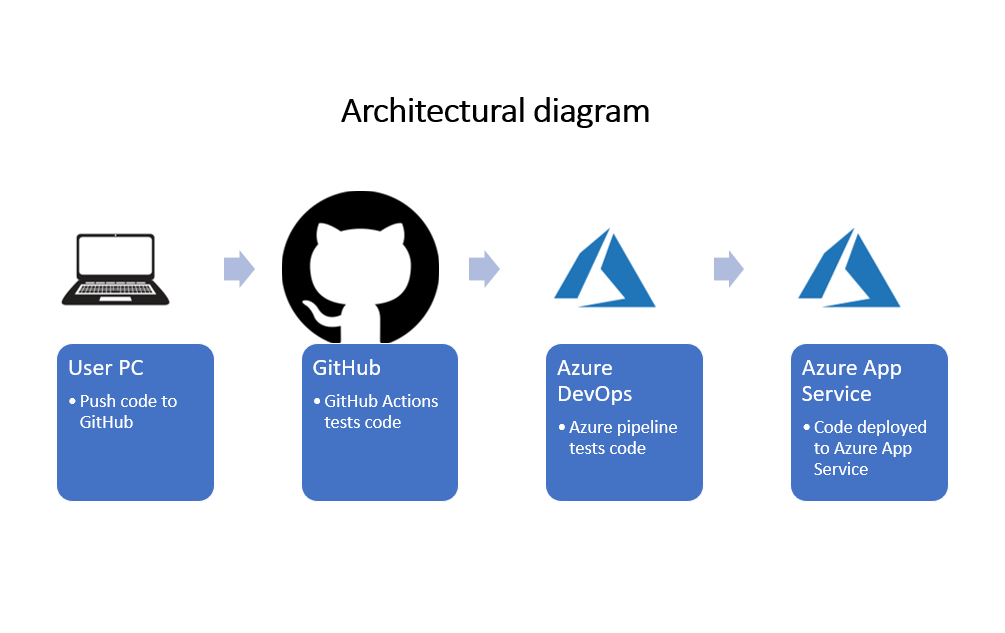
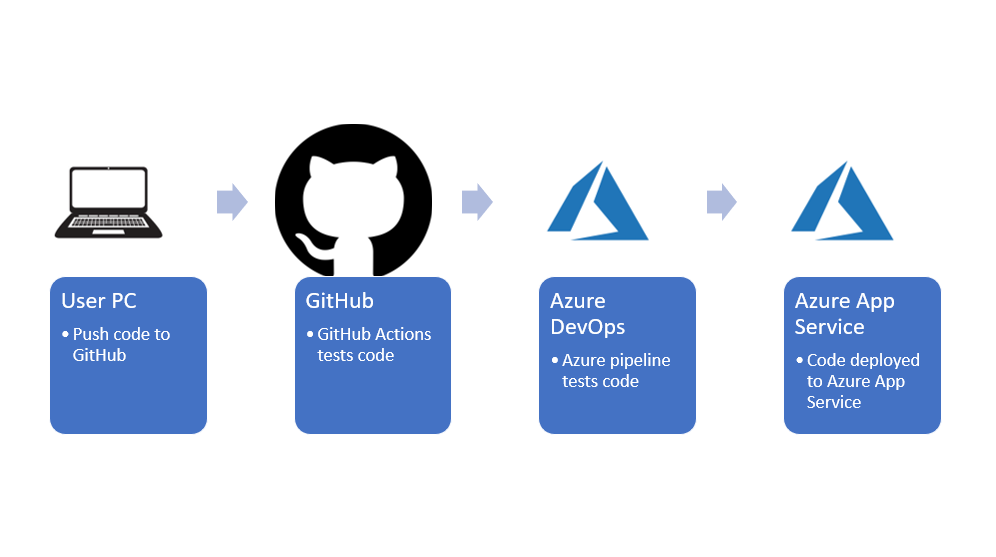
add architectural diagram

diff --git a/README.md b/README.md
@@ -13,11 +13,12 @@ This project contains a python application that is designed to predict housing p
 
 Any commits to the GitHub repo trigger automated code testing using GitHub Actions. A pipeline has been created in Azure DevOps. After commiting new code to GitHub, the pipeline can test the code and deploy the new release to the Azure App Service. 
 
+Here is an architectural diagram:
+![architectural-diagram.png](architectural-diagram.png)
+
 A [Trello](https://trello.com/b/CjgPIZxU/building-a-ci-cd-pipeline) board has been created to keep track of tasks to be completed.
 
 A [spreadsheet](project-schedule.xlsx) has been created to manage the project schedule.
-
-An architectural diagram is available here.
 
 See here for a YouTube video demonstrating the project.
 
@@ -108,6 +109,7 @@ az webapp log tail -g rob-udacity-project --name rob-udacity-webapp
 ```
 ![screenshot-logs.png](screenshots/screenshot-logs.png)
 
+The log
 
 ## Future improvements
 
